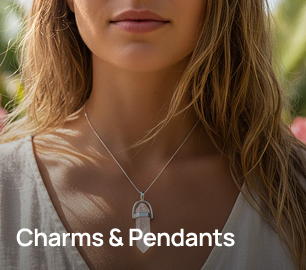
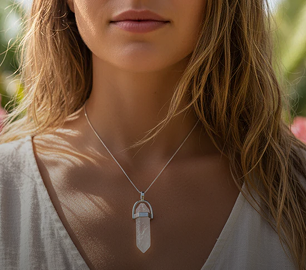
Finally

Changed region(s): [[0.0294, 0.8296, 0.7647, 0.9185]]

diff --git a/components/NewsletterPopup.tsx b/components/NewsletterPopup.tsx
@@ -13,9 +13,13 @@ export default function ImmersiveNewsletter() {
   const [warning, setWarning] = useState('');
   const [copied, setCopied] = useState(false);
   
+  // New state to track if the gift has been claimed
+  const [isClaimed, setIsClaimed] = useState(false);
+
   const [newsletterData, setNewsletterData] = useState({
     title: "Grab a 20% off.",
     subheading: "To claim it tell us your primary spiritual focus.",
+    couponCode: "", // Initialize empty
     options: [
       "Inner Peace & Emotional Balance",
       "Energy Cleansing & Protection",
@@ -31,18 +35,25 @@ export default function ImmersiveNewsletter() {
     setIsVisible(true);
   };
 
-  // NEW: Fetch details from your /api/newsletter/details route
+  // Check if already claimed on mount
+  useEffect(() => {
+    const claimed = localStorage.getItem('newsletter_claimed');
+    if (claimed) {
+      setIsClaimed(true);
+    }
+  }, []);
+
+  // Fetch details (List Name & Coupon Code)
   useEffect(() => {
     async function fetchDetails() {
       try {
         const res = await fetch('/api/newsletter/details');
         const data = await res.json();
-        if (data.name) {
-          setNewsletterData(prev => ({
-            ...prev,
-            title: `Join ${data.name}`, 
-          }));
-        }
+        setNewsletterData(prev => ({
+          ...prev,
+          title: data.name ? `Join ${data.name}` : prev.title,
+          couponCode: data.couponCode || 'WELCOME20' // Use fetched code
+        }));
       } catch (err) {
         console.error("Failed to fetch newsletter details:", err);
       }
@@ -50,9 +61,12 @@ export default function ImmersiveNewsletter() {
     fetchDetails();
   }, []);
 
+  // Auto-show logic (only if not claimed and not seen this session)
   useEffect(() => {
     const hasSeenPopup = sessionStorage.getItem('hasSeenNewsletter');
-    if (!hasSeenPopup) {
+    const claimed = localStorage.getItem('newsletter_claimed');
+    
+    if (!hasSeenPopup && !claimed) {
       const timer = setTimeout(() => setIsVisible(true), 3500);
       return () => clearTimeout(timer);
     }
@@ -75,7 +89,6 @@ export default function ImmersiveNewsletter() {
     }
 
     try {
-      // NEW: Actually subscribe the user to Klaviyo via your API
       const response = await fetch('/api/newsletter/subscribe', {
         method: 'POST',
         headers: { 'Content-Type': 'application/json' },
@@ -85,6 +98,9 @@ export default function ImmersiveNewsletter() {
       if (response.ok) {
         setWarning('');
         setStep(3);
+        // Mark as claimed so GiftTrigger hides immediately and permanently
+        setIsClaimed(true);
+        localStorage.setItem('newsletter_claimed', 'true');
       } else {
         setWarning('Something went wrong. Please try again.');
       }
@@ -94,7 +110,8 @@ export default function ImmersiveNewsletter() {
   };
 
   const copyToClipboard = () => {
-    navigator.clipboard.writeText('WELCOME20');
+    // Use the dynamic code
+    navigator.clipboard.writeText(newsletterData.couponCode);
     setCopied(true);
     setTimeout(() => setCopied(false), 2000);
   };
@@ -115,7 +132,9 @@ export default function ImmersiveNewsletter() {
 
   return (
     <>
-    <GiftTrigger onOpen={openPopup} />
+    {/* Only show GiftTrigger if NOT claimed */}
+    {!isClaimed && <GiftTrigger onOpen={openPopup} />}
+    
     <AnimatePresence>
       {isVisible && (
         <motion.div
@@ -213,7 +232,9 @@ export default function ImmersiveNewsletter() {
                     }}
                     className="flex items-center justify-center gap-[8px] px-[20px] cursor-pointer hover:bg-white/5 transition-colors"
                   >
-                    <span className="font-manrope font-medium text-white text-[16px] tracking-widest uppercase">WELCOME20</span>
+                    <span className="font-manrope font-medium text-white text-[16px] tracking-widest uppercase">
+                      {newsletterData.couponCode || 'WELCOME20'}
+                    </span>
                     {copied ? <Check className="w-4 h-4 text-green-400" /> : <Copy className="w-4 h-4 text-white/60" />}
                   </div>
                 </motion.div>

diff --git a/app/product-analogue/page.tsx b/app/product-analogue/page.tsx
@@ -41,7 +41,7 @@ const QUICK_LINKS = [
     filterValue: 'For Him' 
   },
   { 
-    title: 'Charms', 
+    title: 'Charms & Pendants', 
     image: '/assets/images/Charms.png', 
     filterType: 'category', 
     filterValue: 'Charms & Pendants' 
@@ -217,6 +217,11 @@ export default function ShopPage() {
                       fill
                       className="object-fill transition-all will-change-transform transform-gpu duration-[1200ms] ease-[cubic-bezier(0.16,1,0.3,1)] opacity-70 group-hover:scale-110 group-hover:opacity-100"
                     />
+                    <div className="absolute bottom-5 left-5 z-10 pointer-events-none">
+                      <span className="text-white font-manrope font-bold text-[24px] leading-none tracking-[-0.5px]">
+                        {link.title === 'Charms' ? 'Charms & Pendants' : link.title}
+                      </span>
+                    </div>
                 </div>
               </motion.div>
             ))}

diff --git a/app/api/newsletter/details/route.ts b/app/api/newsletter/details/route.ts
@@ -4,6 +4,7 @@ export async function GET(request: NextRequest) {
   try {
     const listId = process.env.KLAVIYO_NEWSLETTER_LIST_ID; // Add your List ID to .env
     const privateKey = process.env.KLAVIYO_PRIVATE_KEY;
+    const couponCode = process.env.KLAVIYO_WELCOME_COUPON;
 
     if (!listId || !privateKey) {
       return NextResponse.json({ error: 'Configuration missing' }, { status: 500 });
@@ -30,8 +31,7 @@ export async function GET(request: NextRequest) {
 
     return NextResponse.json({
       name: data.data.attributes.name,
-      // Note: Full profile count often requires a separate 'relationships' call
-      // but list name and basic metadata are returned here.
+      couponCode: couponCode
     });
   } catch (error) {
     return NextResponse.json({ error: 'Internal server error' }, { status: 500 });
